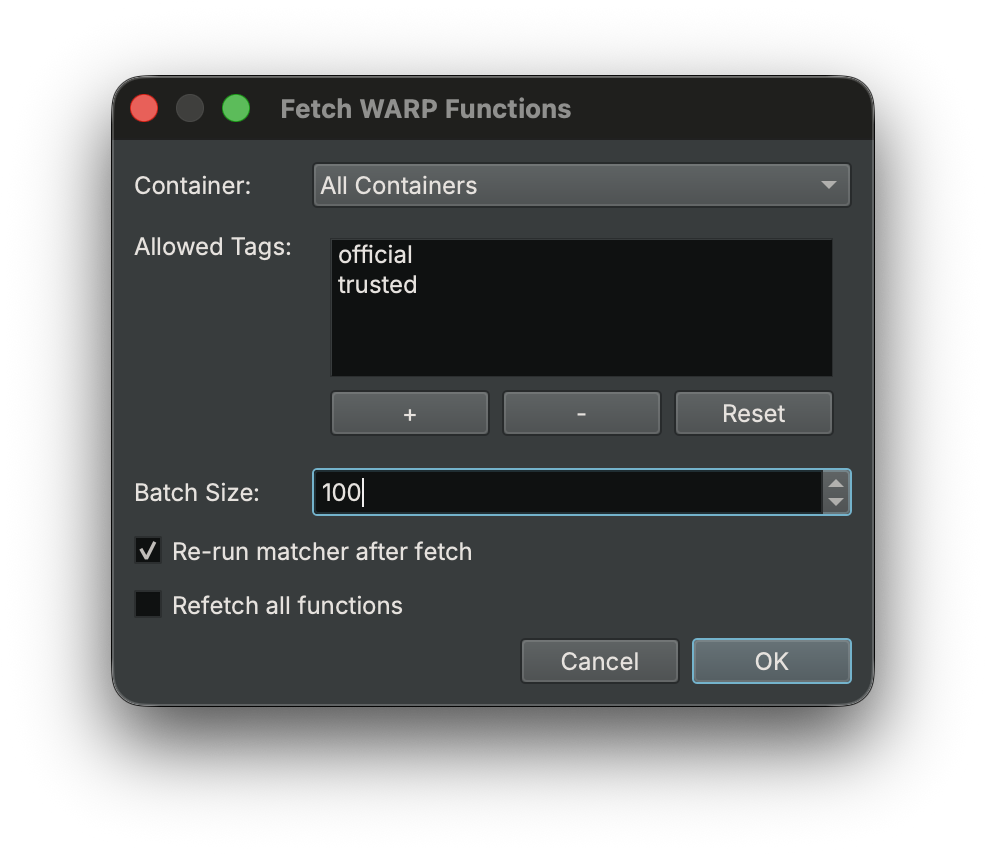
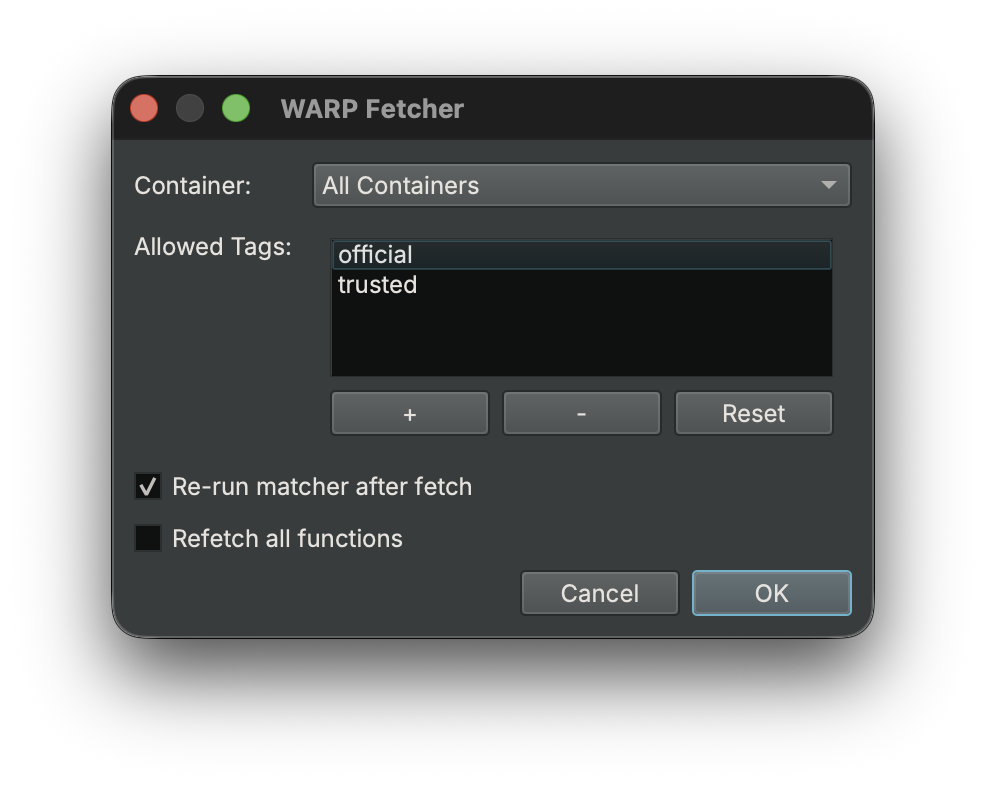
[WARP] More documentation updates and python examples

diff --git a/plugins/warp/examples/create_signatures_advanced.py b/plugins/warp/examples/create_signatures_advanced.py
@@ -1,0 +1,40 @@
+#!/usr/bin/env python3
+
+import sys
+from pathlib import Path
+from binaryninja import load
+from binaryninja.warp import WarpContainer, WarpFunction, WarpTarget
+
+def process_binary(input_file: str, output_dir: str) -> None:
+    input_path = Path(input_file)
+    output_dir = Path(output_dir)
+    output_dir.mkdir(parents=True, exist_ok=True)
+    bv = load(input_path)
+    bv.update_analysis_and_wait()
+    if not bv:
+        return
+
+    container = WarpContainer.add("Python")
+    output_file = output_dir / f"{input_path.stem}_analysis.warp"
+    # Add the source so we can add functions to it and then commit it (write to disk)
+    source = container.add_source(str(output_file))
+    if source is None:
+        print(f"Failed to create source {str(output_file)}")
+        return
+
+    # NOTE: You probably want to pull the platform from the function, but for this example it's fine.
+    target = WarpTarget(bv.platform)
+    # NOTE: You probably want to filter for functions with actual annotations, no point to signature a function with no symbol.
+    functions_to_warp = [WarpFunction(func) for func in bv.functions]
+    container.add_functions(target, source, functions_to_warp)
+
+    # Actually write the warp file to disk.
+    container.commit_source(source)
+    bv.file.close()
+    print(f"committed {len(functions_to_warp)} functions to {output_file}")
+
+if __name__ == "__main__":
+    if len(sys.argv) != 3:
+        print(f"Usage: {sys.argv[0]} <input_binary> <output_directory>")
+        sys.exit(1)
+    process_binary(sys.argv[1], sys.argv[2])

diff --git a/plugins/warp/examples/create_signatures.py b/plugins/warp/examples/create_signatures.py
@@ -2,41 +2,27 @@
 
 import sys
 from pathlib import Path
-from binaryninja import load
-from binaryninja.warp import WarpContainer, WarpFunction, WarpTarget
+from binaryninja.warp import *
 
 def process_binary(input_file: str, output_dir: str) -> None:
     input_path = Path(input_file)
     output_dir = Path(output_dir)
     output_dir.mkdir(parents=True, exist_ok=True)
-    bv = load(input_path)
-    bv.update_analysis_and_wait()
-    if not bv:
+    output_file = output_dir / f"{input_path.stem}.warp"
+    processor = WarpProcessor()
+    processor.add_path(input_file)
+    file = processor.start()
+    if not file:
         return
+    buffer = file.to_data_buffer()
+    with open(output_file, 'wb') as f:
+        f.write(bytes(buffer))
+    print(f"Wrote {len(buffer)} bytes to {output_file}")
 
-    # For the sake of this example we are going to assume the container "User"
-    # is available, in the future we might want to make containers constructable
-    container = WarpContainer.by_name("User")
-    output_file = output_dir / f"{input_path.stem}_analysis.warp"
-    # Add the source so we can add functions to it and then commit it (write to disk)
-    source = container.add_source(str(output_file))
-    if source is None:
-        print(f"Failed to create source {str(output_file)}")
-        return
-
-    # NOTE: You probably want to pull the platform from the function, but for this example it's fine.
-    target = WarpTarget(bv.platform)
-    # NOTE: You probably want to filter for functions with actual annotations, no point to signature a function with no symbol.
-    functions_to_warp = [WarpFunction(func) for func in bv.functions]
-    container.add_functions(target, source, functions_to_warp)
-
-    # Actually write the warp file to disk.
-    container.commit_source(source)
-    bv.file.close()
-    print(f"committed {len(functions_to_warp)} functions to {output_file}")
 
 if __name__ == "__main__":
     if len(sys.argv) != 3:
         print(f"Usage: {sys.argv[0]} <input_binary> <output_directory>")
         sys.exit(1)
+    binaryninja._init_plugins()
     process_binary(sys.argv[1], sys.argv[2])

diff --git a/docs/guide/warp.md b/docs/guide/warp.md
@@ -24,12 +24,12 @@ When a function matches, we will apply the following information:
 - Symbol
     - Name
     - Demangled type
-- User defined type
+- User-defined type
     - Calling convention
     - Parameter names
     - Parameter types
     - Return type
-- User defined variables
+- User-defined variables
     - Name
     - Type
 - Comments
@@ -52,8 +52,8 @@ Files are automatically loaded from two locations when Binary Ninja starts:
 ### Manually
 
 Aside from using the signature directory you can load any WARP file manually using the command `WARP\\Load File` or via
-the UI sidebar, they both do the same thing. Once the file is loaded, you do not need to load it for every view, it is
-available globally.
+the UI sidebar, they both do the same thing. Once the file is loaded, you do not need to load it for every view, any view
+that performs function matching will have access to the loaded file.
 
 ???+ Info "Tip"
     When loading signatures you may encounter a dialog asking to "Override file target?" this happens when your file
@@ -62,35 +62,20 @@ available globally.
 
 ## Creating WARP Files
 
-Before you actually can create these WARP files, you must identify the binary files relevant to the target binary. Once
-that is done, you can determine which of the following procedures is best:
+Before you actually can create these WARP files, you must identify the binary files relevant to the target binary. This
+can differ depending on the type of binary you are working with, but once you have those files you can create the files
+using the command `WARP\\Process` or via the UI sidebar.
 
-=== "From the current view"
-    You can create signatures for the current view by running the
-    command `WARP\\Create\\From View` or by hitting the associated
-    button in the WARP sidebar.
+![Processor Dialog](../img/warp/processor_dialog.png "Processor Dialog"){ width="600" }
 
-    ![From View](../img/warp/create_from_view.png "From View")
-
-=== "From a file"
-    Using the command `WARP\\Create\\From File(s)` you can create
-    a signature file for an external file. This is useful if you
-    are generating signatures for library files (`.a`, `.lib`, `.rlib`).
-
-    ![From File](../img/warp/create_from_file.png "From File")
-
-=== "From the current project"
-    When dealing with a large dataset, you will want a way to process
-    files in parallel, using the `WARP\\Create\\From Project` command
-    you can generate signatures for any set of files in a project, this
-    includes archive formats like library files (`.a`, `.lib`, `.rlib`).
-
-    ![From Project](../img/warp/create_from_project.png "From Project")
+The processor dialog will allow you to select the files you want to process, including directories and project files. To
+add more files, you can use the "+" button and select the files you want to add. If you have more than one file to process 
+the worker count will control how many entries are processed in parallel.
 
 ???+ Info "Tip"
     You can also create signature files using the provided API, see the [API section](#api) for more details.
 
-Both the file and project signature creation support loading the following file formats:
+The following file formats are supported:
 
 - Binary files (`.exe`, `.so`, `.dylib`)
 - WARP files (`.warp`)
@@ -99,6 +84,14 @@ Both the file and project signature creation support loading the following file 
     - Using a database will allow you to mark up the function information and also cut down on processing time as the required information has already been created prior to processing.
 - Archive files (`.a`, `.lib`, `.rlib`)
     - The archive entry files will be extracted to a temporary directory for processing.
+
+After processing is complete, you will be shown a dialog with the results, from here you can save the file to disk or commit
+the data to the server using the commit dialog.
+
+![Report Dialog](../img/warp/report_dialog.png "Report Dialog"){ width="600" }
+
+If you are trying to commit the data to the server, make sure you have [connected](#connecting) to the server first with
+a valid API key, otherwise you will get an error when commiting.
 
 ### Including specific functions
 
@@ -109,9 +102,8 @@ will be prompted whether you want to keep the existing data, you will want to sa
 
 ### File size
 
-Information in the WARP file will be deduplicated across all processed files automatically.
-If your files are too large, try and adjust the file data to something like "Symbols" only, and if you are looking to
-make the files load quicker, turn off compression.
+Information in the WARP file will be deduplicated across all processed files automatically. If your files are too large, 
+try and adjust the file data to something like "Symbols" only.
 
 ## Networked Functionality
 
@@ -127,7 +119,7 @@ and the default primary server is https://warp.binary.ninja. You can also give i
 in as your user, and have access to push data to your sources using `warp.container.serverApiKey`.
 
 Once restarted, you should see a log message indicating you have connected. You can also verify connections in the WARP 
-sidebar under the "Containers" tab which should list the provided WARP server(s) alongside any of your sources you have created.
+sidebar under the "Containers" tab, which should list the provided WARP server(s) alongside any of your sources you have created.
 
 ### Pulling Networked Data
 
@@ -140,7 +132,7 @@ globally by modifying the setting `warp.fetcher.allowedSourceTags` as a comma se
 from within the server UI, either by source users or the server admin, the tags "official" and "trusted" may only be added
 or removed by the server admin.
 
-![Fetch Dialog](../img/warp/fetch_dialog.png "Fetch Dialog")
+![Fetch Dialog](../img/warp/fetch_dialog.png "Fetch Dialog"){ width="600" }
 
 ???+ Info "Tip"
     Fetching of function information from the server will also be done on demand when navigating to a function for the first time
@@ -164,11 +156,18 @@ To get an API key using the website:
 
 Once restarted, you should see a log message indicating you have connected as the associated user.
 
-After logging in, you can create a new source on the server by right-clicking in the container sources tab and selecting
-"Add Source" you can also do this via the website. 
+> [WARP.Plugin] Server 'https://warp.binary.ninja' connected, logged in as user 'binary-dog-4213'
 
-Once you have created a source, you can start pushing your WARP files to them using the command `WARP\\Commit File` or 
-using the ⬆ button within the WARP sidebar.
+After logging in, you can create a new source on the server by right-clicking in the container sources tab and selecting
+"Add Source" you can also do this via the website or in the processor dialog (see below). 
+
+Once you have created a source, you can start pushing your information to the server by invoking the processor dialog
+and opening the commit dialog after processing of the data has completed.
+
+![Commit Dialog](../img/warp/commit_dialog.png "Commit Dialog"){ width="600" }
+
+Each source operates as its own collection of function and type information, creating a new source is as simple as clicking
+the "+" button and giving it a name. The sources are synced on the server and can be managed from the website.
 
 ## Overwriting Matched Functions
 
@@ -189,23 +188,32 @@ from being matched automatically in the future.
 
 ## API
 
-To create, query and load WARP data programmatically, we provide a [Python API]. For those looking to interact with WARP
+To create, query, and load WARP data programmatically, we provide a [Python API]. For those looking to interact with WARP
 from Rust because the plugin is open source, you can depend _directly_ on the [Rust plugin], skipping the FFI entirely.
 
 ### Rust example (recommended)
 
-This example will use the Rust API directly to generate WARP files from given inputs, it will automatically parallelize
-the work, so it will be much faster than the Python example.
+This example will use the Rust API directly to generate WARP files from given inputs, this operates with the same processor
+as the UI and supports all the same options.
 
 Find the example [here](https://github.com/Vector35/binaryninja-api/tree/dev/plugins/warp/examples/headless).
 
 ### Python example
 
+This example will open a binary in Binary Ninja then output a WARP signature file using the core processor API. This is the
+easiest way to get started with the API, as it will use the same processor as the UI and support all the same options.
+
+Find the example [here](https://github.com/Vector35/binaryninja-api/tree/dev/plugins/warp/examples/create_signatures.py).
+
+### Python example (advanced)
+
 This example will open a binary in Binary Ninja then output a WARP signature file.
 
 The flexibility of the API allows you to include or exclude any functions you want from the creation of the signature file.
+The cost is that it does not use the same processor as the UI and you will need to implement the same logic yourself for
+selecting the functions and processing in parallel.
 
-Find the example [here](https://github.com/Vector35/binaryninja-api/tree/dev/plugins/warp/examples/create_signatures.py).
+Find the example [here](https://github.com/Vector35/binaryninja-api/tree/dev/plugins/warp/examples/create_signatures_advanced.py).
 
 ## Troubleshooting
 
@@ -230,19 +238,33 @@ The function GUID will differ if the instruction highlights are not exactly the 
 
 When running the matcher manually, you may get a warning about no relocatable regions found; this means you have no defined
 sections or segments in your view. For WARP to work we must have some range of address space to work with, without it the
-function GUIDs will likely be inconsistent if the functions can be based at different addresses.
+function GUIDs will likely be inconsistent if the functions can be based at different addresses. Once you have updated the sections,
+or segments, you should [regenerate the function GUIDs](#regenerating-the-function-guids).
 
 ### "Relocatable region has a low start-address" warning
 
 WARP uses relocatable regions to determine relocatable addresses encoded in instructions, if you have a relocatable region
-that covers a low address space, WARP may mask regular constants and other irrelevant instructions. This warning mostly
+that covers a low-address space, WARP may mask regular constants and other irrelevant instructions. This warning mostly
 affects firmware binaries (or other mapped views), if you have not rebased the view to the correct image base, then you
-should as it will fix this issue
+should as it will fix this issue. Once you have rebased the view, you should [regenerate the function GUIDs](#regenerating-the-function-guids).
 
 ### Failed to connect to the server
 
 If you fail to connect to a WARP server, you will receive an error in the log. Outside typical network connectivity issues 
 it is possible the provided server URL is malformed, verify that the URL looks similar to the default server URL: `https://warp.binary.ninja`
+
+### Regenerating the function GUIDs
+
+After updating the binary with new sections, segments, or base address, you will need to regenerate the function GUIDs to ensure 
+they are accurate and up to date. Unfortunately, this is currently not something we can automatically do for you. To do this
+you will need to run something like this:
+
+```python
+from binaryninja.warp import *
+for func in bv.functions:
+    func.remove_metadata('warp_function_guid')
+    get_function_guid(func)
+```
 
 ## Glossary
 
@@ -252,17 +274,17 @@ Here is a list of terms used and a simplified description, please see the [WARP]
 A **Target** defines platform-specific information needed to filter out irrelevant WARP information.
 
 ### Container
-A **Container** stores and manages WARP data, whether in memory, on disk or over the network. Each container has its own collection of sources.
+A **Container** stores and manages WARP data, whether in memory, on disk, or over the network. Each container has its own collection of sources.
 
 ### Source
 A **Source** is a collection of WARP data within a container, like a file containing function and type information.
 
 ### Source Tag
-A **Source Tag** is an arbitrary string that is used for filtering fetched function data from containers, useful when dealing with larger potentially
-untrusted datasets.
+A **Source Tag** is an arbitrary string, which is used for filtering fetched function data from containers, useful when dealing with 
+larger and potentially untrusted datasets.
 
 ### Function
-A **Function** in WARP represents the collection of metadata that we wish to transfer, such as the symbol, comments and types.
+A **Function** in WARP represents the collection of metadata that we wish to transfer, such as the symbol, comments, and types.
 
 ### Function GUID
 A **Function GUID** is a unique ID derived from the contents of the function, allowing matching across different binaries.
@@ -270,6 +292,13 @@ A **Function GUID** is a unique ID derived from the contents of the function, al
 ### Constraint
 A **Constraint** helps ensure accurate function matching by verifying specific properties are shared between functions.
 For example, a referenced function would be used as a constraint.
+
+### File
+A **File** in WARP represents a collection of chunks, which are use to store function and type information. It is exposed 
+via the API as a way to pass around the data to different parts of the application, such as the processor and the container.
+
+### Chunk
+A **Chunk** is a collection of either function or type information, stored as a flatbuffer.
 
 [WARP]: https://github.com/vector35/warp
 [Install Directory]: https://docs.binary.ninja/guide/#binary-folder